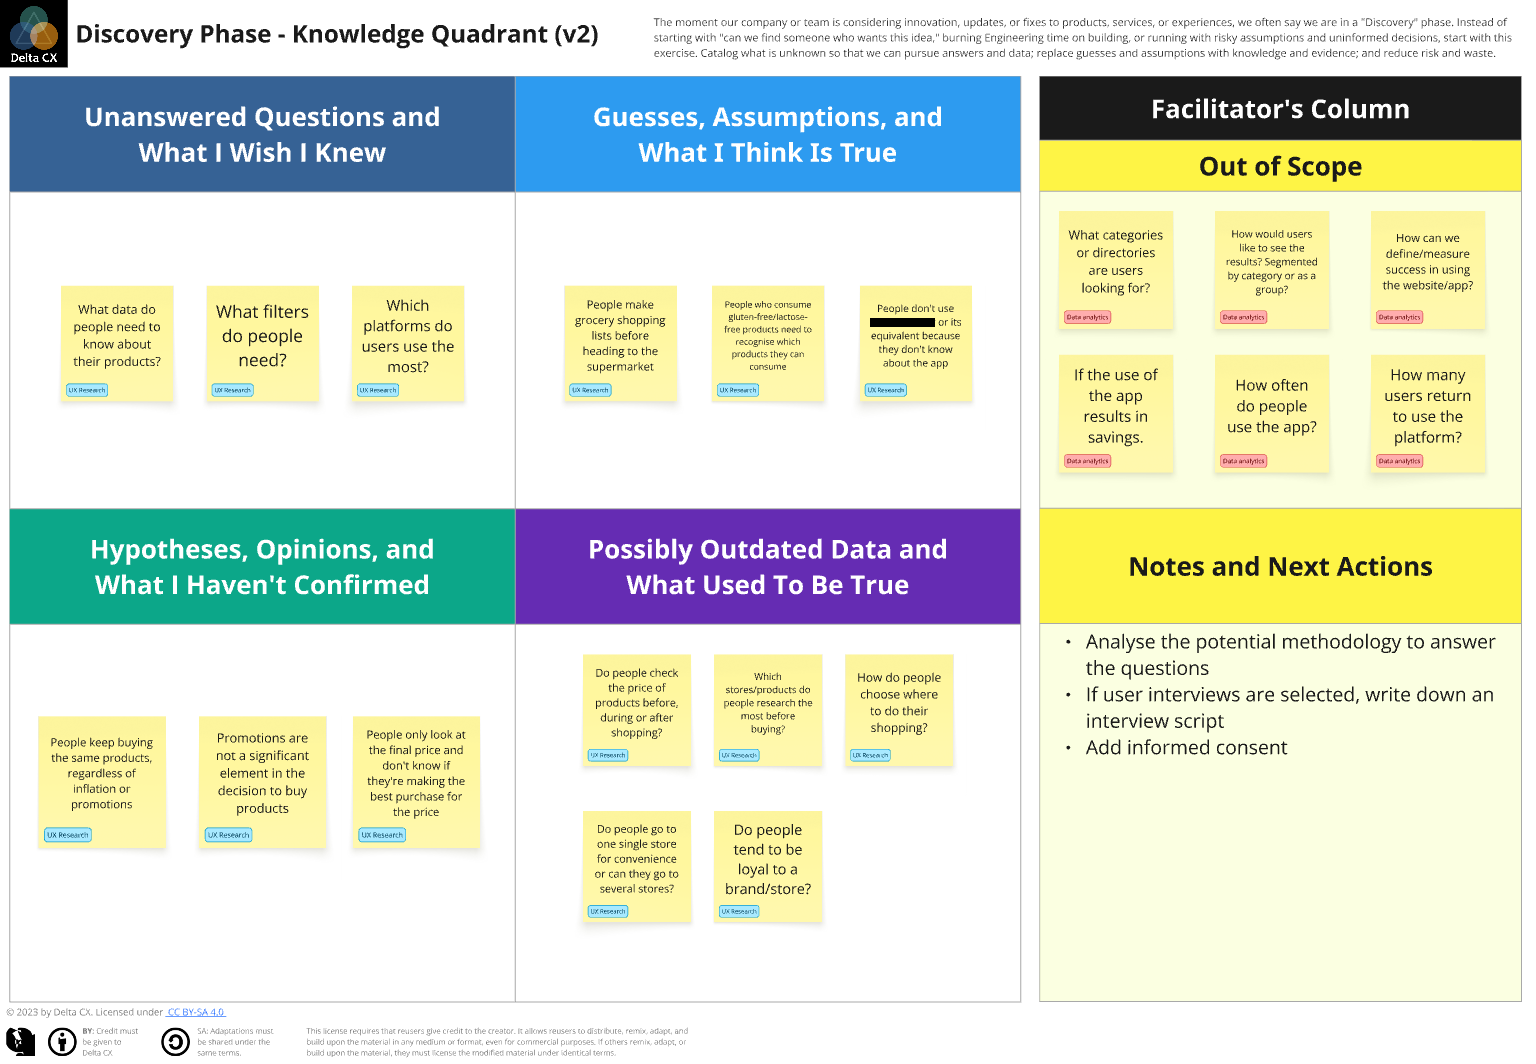
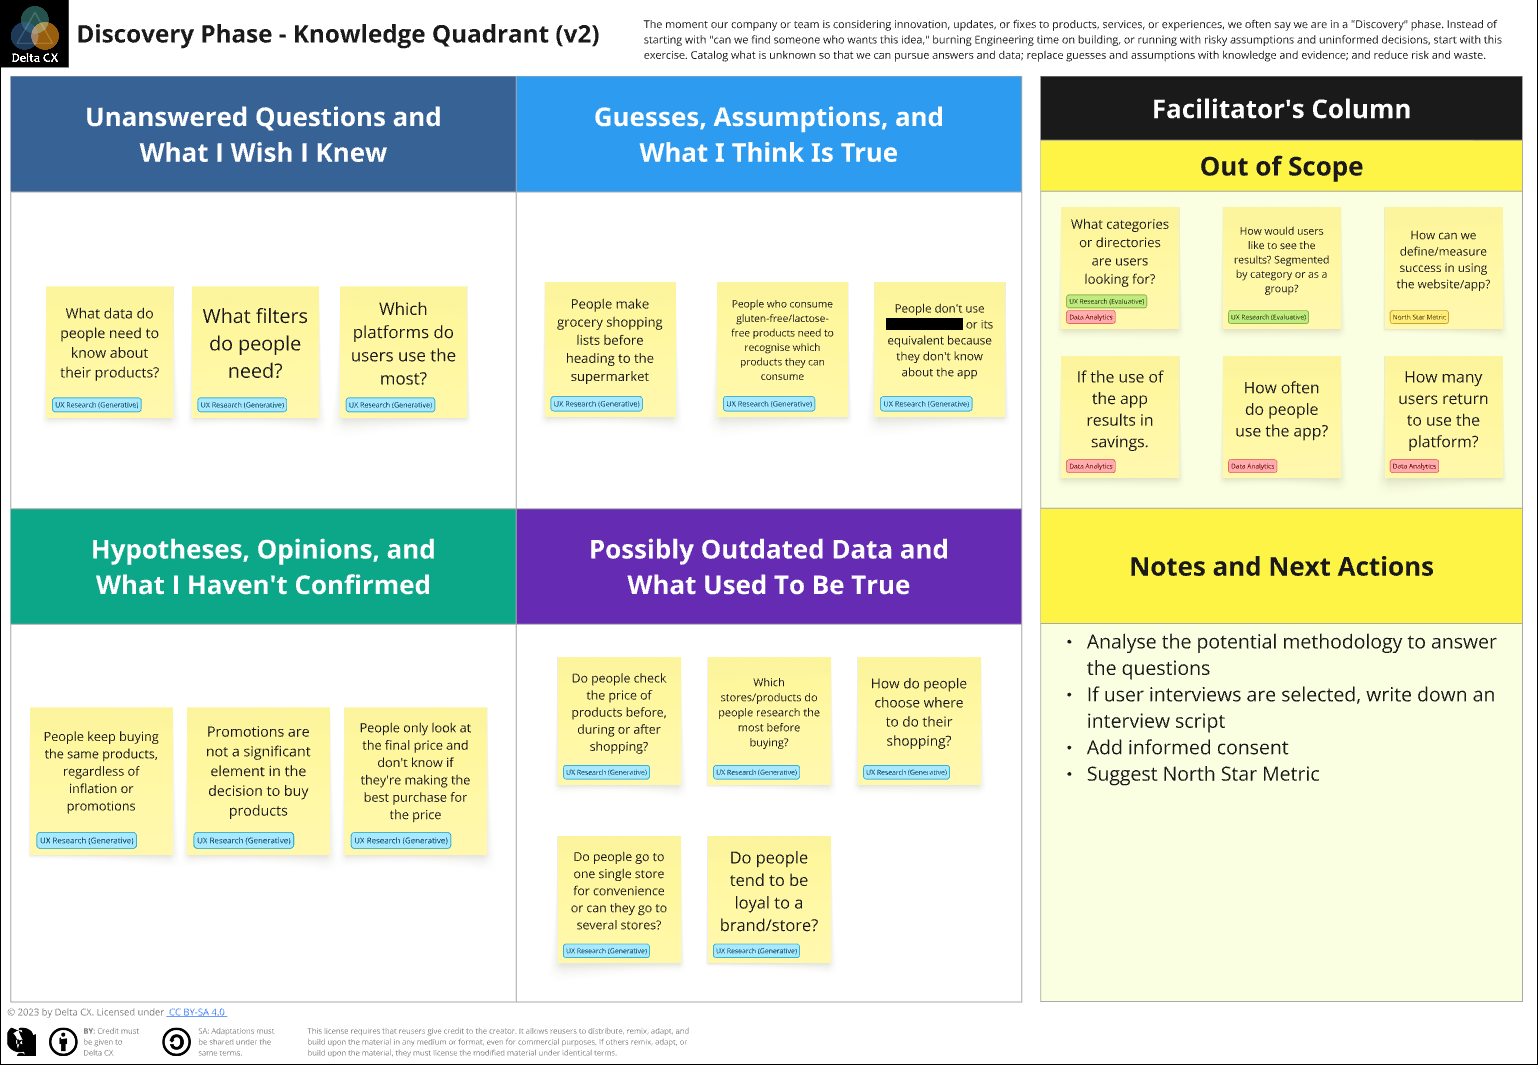
Update

diff --git a/shoppingpreparation.html b/shoppingpreparation.html
@@ -126,8 +126,8 @@ layout: default
       A preliminary analysis of the research needs was performed and the
       questions were tagged accordingly (questions that UX Research could answer
       and questions that should be answered by data analytics). The data
-      analytics questions were considered out of scope for this generative
-      research study.
+      analytics questions and the questions related to evaluative research were
+      considered out of scope for this generative research study.
     </li>
   </ul>
   <img
@@ -551,54 +551,54 @@ layout: default
   <div class="insight-grid">
     <div class="insight-row">
       <div class="insight-col">
-<h3>Analysis</h3>
-  <ul>
-    <li>Conducted thematic analysis of interview data using Dovetail</li>
-    <li>
-      Iteratively analysed interview transcripts to identify emerging patterns
-      and themes
-    </li>
-    <li>
-      Gradually developed user knowledge profiles as patterns became apparent
-      through sequential interviews
-    </li>
-  </ul>
+        <h3>Analysis</h3>
+        <ul>
+          <li>Conducted thematic analysis of interview data using Dovetail</li>
+          <li>
+            Iteratively analysed interview transcripts to identify emerging
+            patterns and themes
+          </li>
+          <li>
+            Gradually developed user knowledge profiles as patterns became
+            apparent through sequential interviews
+          </li>
+        </ul>
       </div>
       <div class="insight-col">
-<h3>Refinement</h3>
-  <ul>
-    <li>
-      Expanded participant pool from the initial 8 interviews to 26 total
-      participants after recognising emerging patterns that required further
-      investigation
-    </li>
-    <li>
-      Iterated on user knowledge profiles, ultimately identifying 3 primary
-      profiles plus 1 additional indirect profile that emerged during the
-      interviews and proved relevant to task execution
-    </li>
-    <li>
-      Used iterative analysis to refine task mapping and develop a comprehensive
-      understanding of users' needs, pain points and motivations
-    </li>
-    <li>
-      Conducted competitive analysis in two phases:
-      <ul>
-        <li>
-          Initial assessment based on solutions identified through secondary
-          research
-        </li>
-        <li>
-          Supplementary assessment incorporating the tools mentioned by
-          participants during interviews
-        </li>
-      </ul>
-    </li>
-  </ul>
+        <h3>Refinement</h3>
+        <ul>
+          <li>
+            Expanded participant pool from the initial 8 interviews to 26 total
+            participants after recognising emerging patterns that required
+            further investigation
+          </li>
+          <li>
+            Iterated on user knowledge profiles, ultimately identifying 3
+            primary profiles plus 1 additional indirect profile that emerged
+            during the interviews and proved relevant to task execution
+          </li>
+          <li>
+            Used iterative analysis to refine task mapping and develop a
+            comprehensive understanding of users' needs, pain points and
+            motivations
+          </li>
+          <li>
+            Conducted competitive analysis in two phases:
+            <ul>
+              <li>
+                Initial assessment based on solutions identified through
+                secondary research
+              </li>
+              <li>
+                Supplementary assessment incorporating the tools mentioned by
+                participants during interviews
+              </li>
+            </ul>
+          </li>
+        </ul>
       </div>
     </div>
   </div>
-
 
   <h3>Synthesis</h3>
   <p>
@@ -723,7 +723,9 @@ layout: default
   <div class="tabs">
     <div class="tab">
       <input type="checkbox" id="chck5" />
-      <label class="tab-label" for="chck5" style="font-size: 1.4em;">Documentation</label>
+      <label class="tab-label" for="chck5" style="font-size: 1.4em"
+        >Documentation</label
+      >
       <div class="tab-content">
         <p>
           The research process yielded several comprehensive deliverables to
